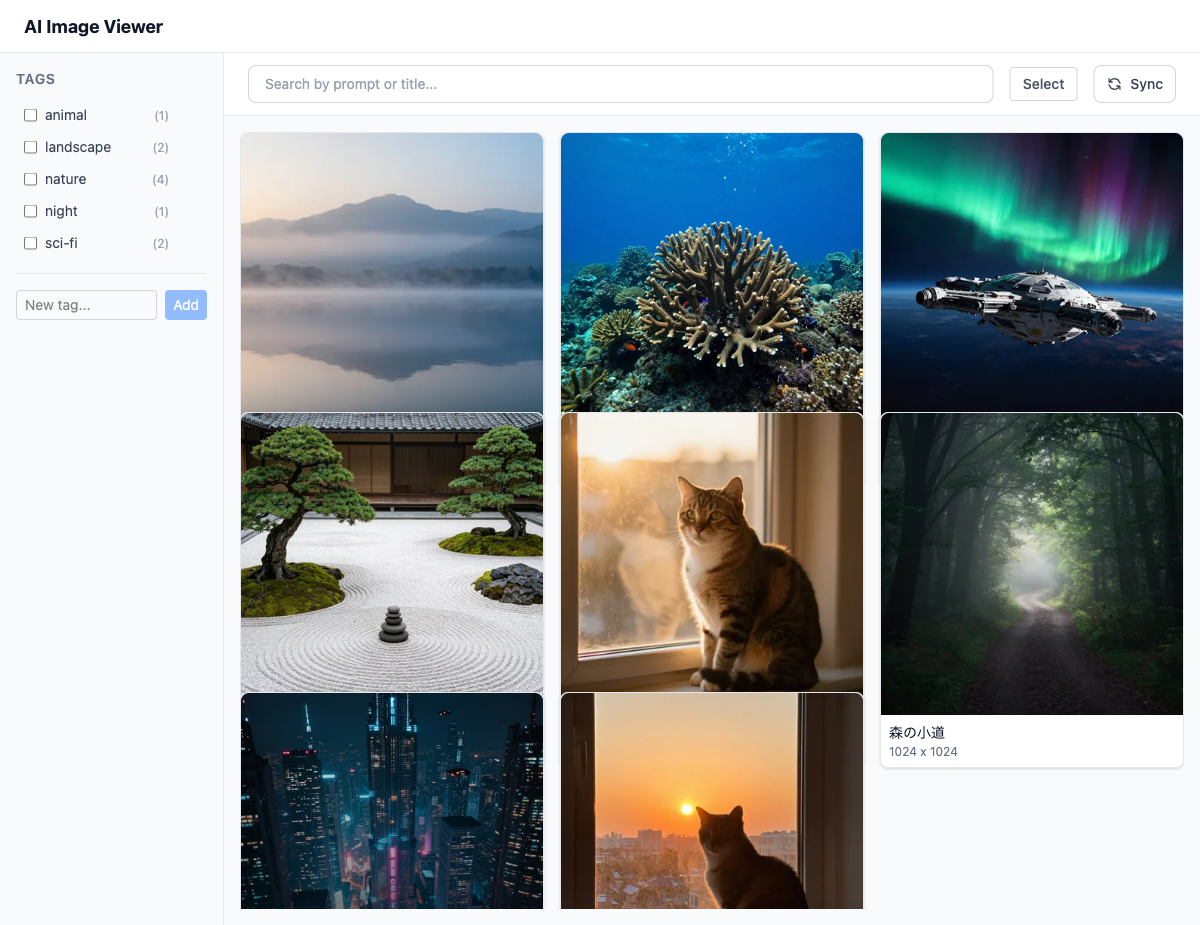
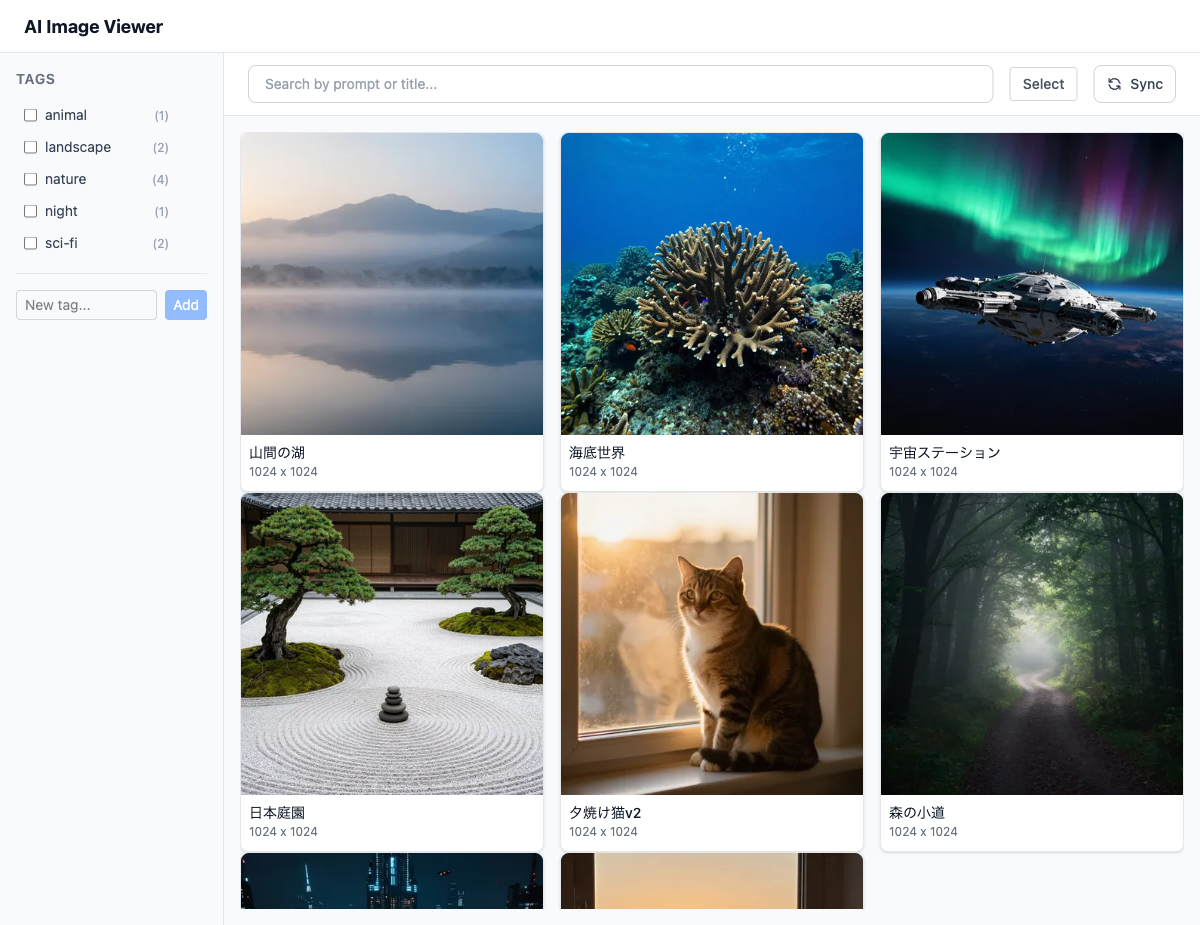
fix: calculate virtual scroll row height dynamically to show card titles

Changed region(s): [[0.185, 0.4238, 0.9867, 0.9989], [0.9558, 0.5751, 0.9867, 0.6054]]

diff --git a/src/client/components/ImageGrid.tsx b/src/client/components/ImageGrid.tsx
@@ -49,10 +49,20 @@ export function ImageGrid({ images, onImageClick, selectionMode, selectedImages,
   const columns = useColumnCount(parentRef);
   const rowCount = Math.ceil(images.length / columns);
 
+  const estimateRowHeight = useCallback(() => {
+    const container = parentRef.current;
+    if (container === null) return 320;
+    const gap = 16; // gap-4 = 1rem = 16px
+    const totalGaps = (columns - 1) * gap;
+    const cardWidth = (container.clientWidth - totalGaps) / columns;
+    // aspect-square image + ~56px for title/size below
+    return cardWidth + 56;
+  }, [columns]);
+
   const rowVirtualizer = useVirtualizer({
     count: rowCount,
     getScrollElement: () => parentRef.current,
-    estimateSize: () => 280,
+    estimateSize: estimateRowHeight,
     overscan: 3,
   });
 
